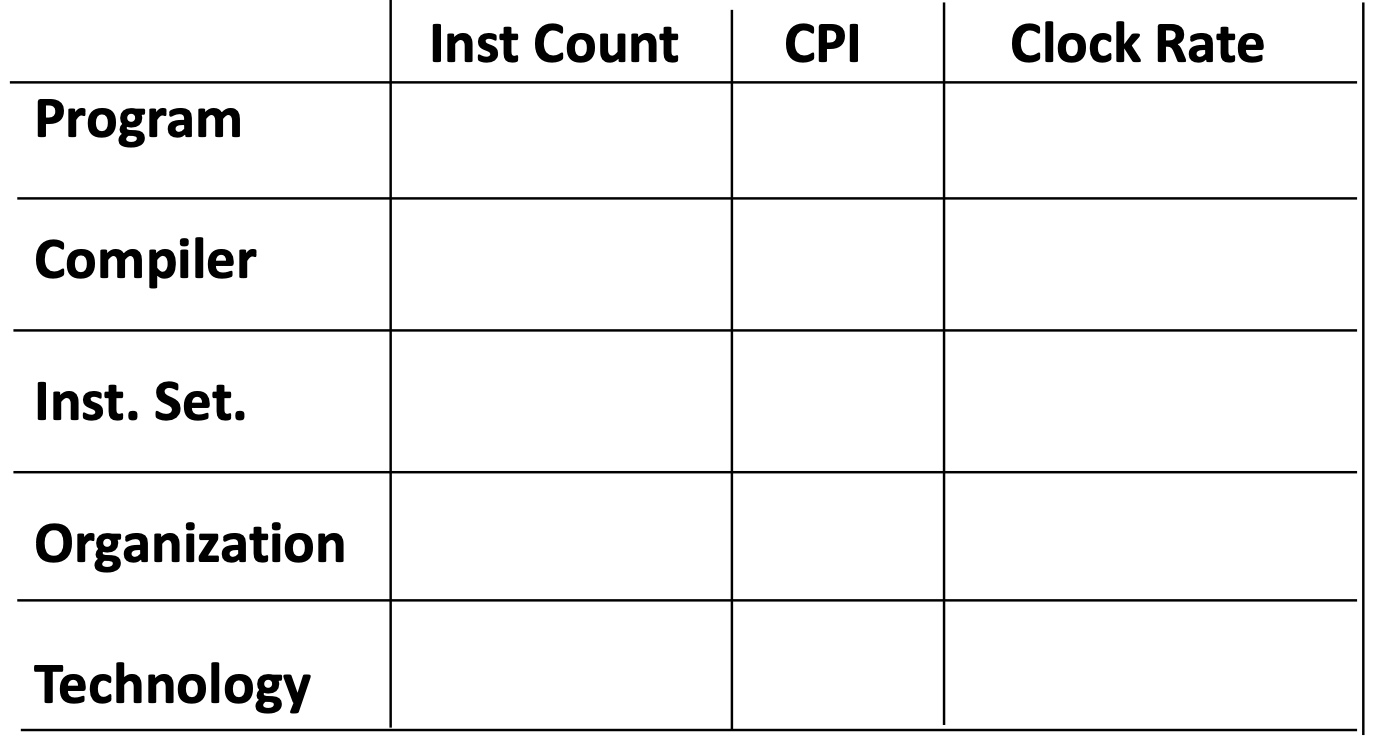
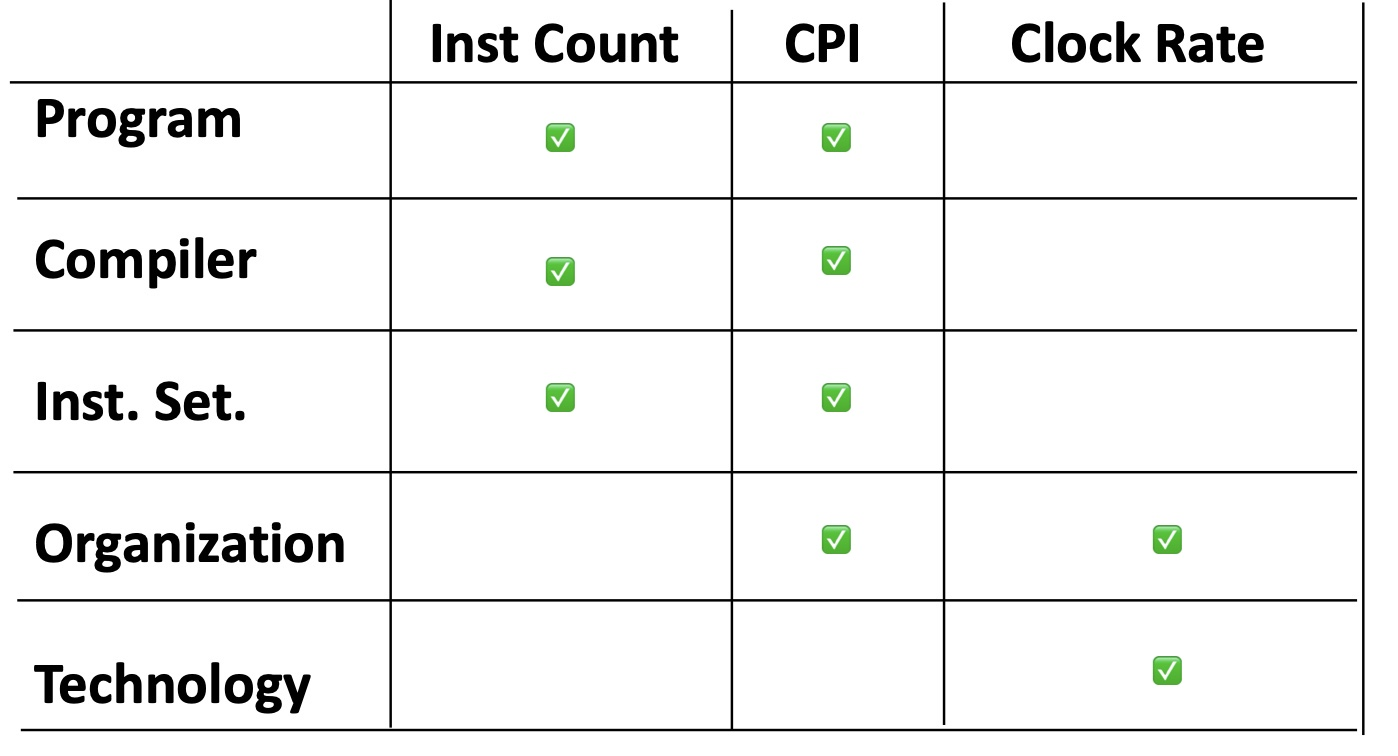
Solve some questions 2020-09-04 14:39:39

diff --git a/lesson3.md b/lesson3.md
@@ -5,6 +5,12 @@ that can be used to increase processor speeds?
 
 🤔Increase the voltage. Re-design the adder, multiplier, divider... Any component that needed in the ALU implementation. Caches maybe, since if the memory access is slow, it will become the bottleneck and limit the processing speed.
 
+👨🏫My answer is correct. Basically the problem is about memory access. Adding multiple layer's cache is a good solution. But there are also other solutions, like buffer (both for data and instructions). Besides, using specialized processing units rather than general-propose processors also helps. Last but not the least, quantum computing.
+
+ℹTurbo mode 28:05 听了很久没听懂的...本来以为自己英语不好，原来是孤陋寡闻，我的词库里没有这个东东... 
+
+📗Intel started offering Turbo mode in 2008, where the chip decides that it is safe to run at a higher clock rate for a short time, possibly on just a few cores, until temperature starts to rise. 看书里的定义有印象了，就是没记得这个专有名词。本质上还是 higher frequency 的范畴。
+
 
 # Amdahl’s Law
 
@@ -22,6 +28,8 @@ Speedup_{overall} = ExTime_{old} / ExTime_{new} = 1 / [(1 - Fraction_{enhanced})
 lim(n->$\infty$) speedup_{Overall} = 1 / (1 - Fraction_{enhanced})
 ```
 
+👨🏫This fraction can be either executing time wise or instruction number wise.
+
 👧We notice that there is an upper bound of the overall speedup, that is `1 / (1 - Fraction_{enhanced})`. Slide 8 gives an example.
 
 ---
@@ -30,13 +38,18 @@ lim(n->$\infty$) speedup_{Overall} = 1 / (1 - Fraction_{enhanced})
 
 🤔Infinite close to zero?
 
+👨🏫Correct.
+
 ---
 
 ![](image/2020-09-02-speedup-graph.jpg)
 
 ❓Why does the practical curve go down?
 
-🤔As the number of processors becomes larger, the running program should be cut into more divisible parts. That's hard when the tasks are really small enought that can't be divided any longer. In that case, some processors are redundant and they can't be taken good advantage.
+🤔As the number of processors becomes larger, the running program should be cut into more divisible parts. That's hard when the tasks are really small enought that can't be divided any longer. In that case, some processors are redundant and they can't be taken good advantage. Besides, more processors means there may be more communication costs, which leads to the decrease of the speedup.
+
+
+👨🏫First, when multiple processors access the same cache line, memory data, there may be a collision, which brings a lot of I/O costs. Both for data input and output (if we want things to go together in the end). Second, when you divide the tasks into multiple pieces, the time saving for multiple processors usually less than the time for communication.
 
 # CPI
 
@@ -78,6 +91,9 @@ Check slide 12 for a calculation example.
 
 🤔Compared with load, store, ALU don't need to be interacted with memory, which takes a long time to execute; compared with branch, ALU is determinstic and sequential.
 
+👨🏫Ummm, my answer is in the wrong direction. As we can see in the last few slides, we can adopt **pipeline** into the implementation of ALU, which will hugely increase the performance.
+
+
 # Arithmetic Pipelines
 
 ### Ideal vs non-ideal pipelines
@@ -93,6 +109,10 @@ Check slide 12 for a calculation example.
 **k-stage Pipeline - Speedup:**
 
 ![](image/2020-09-02-k-stage-pipeline.jpg)
+
+❓Why the practical case will decrease at somewhere?
+
+👨🏫The more stages, the more hardware support. But sometimes an instruction cannot be divived into so many stages. So they cannot be executed at the same time.
 
 ### Arithmetic Pipelines
 
